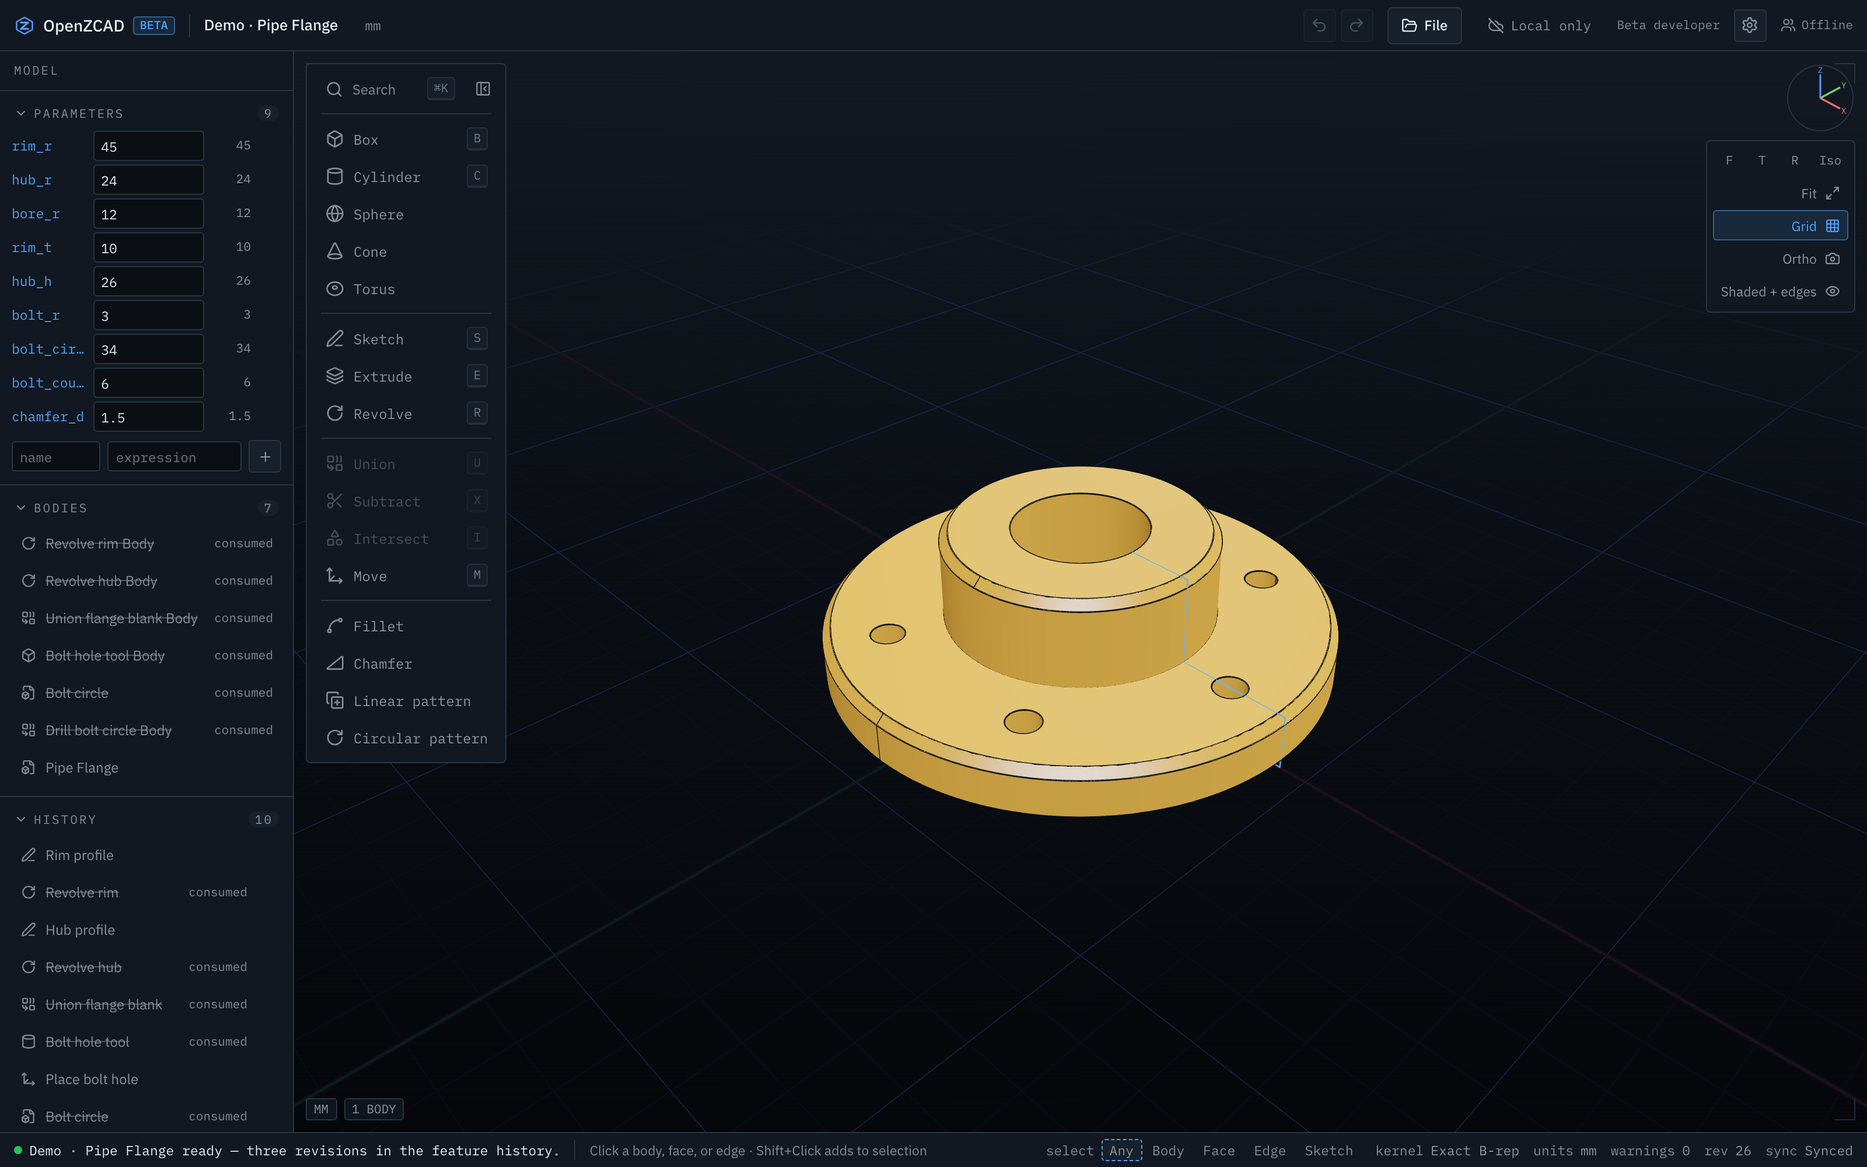
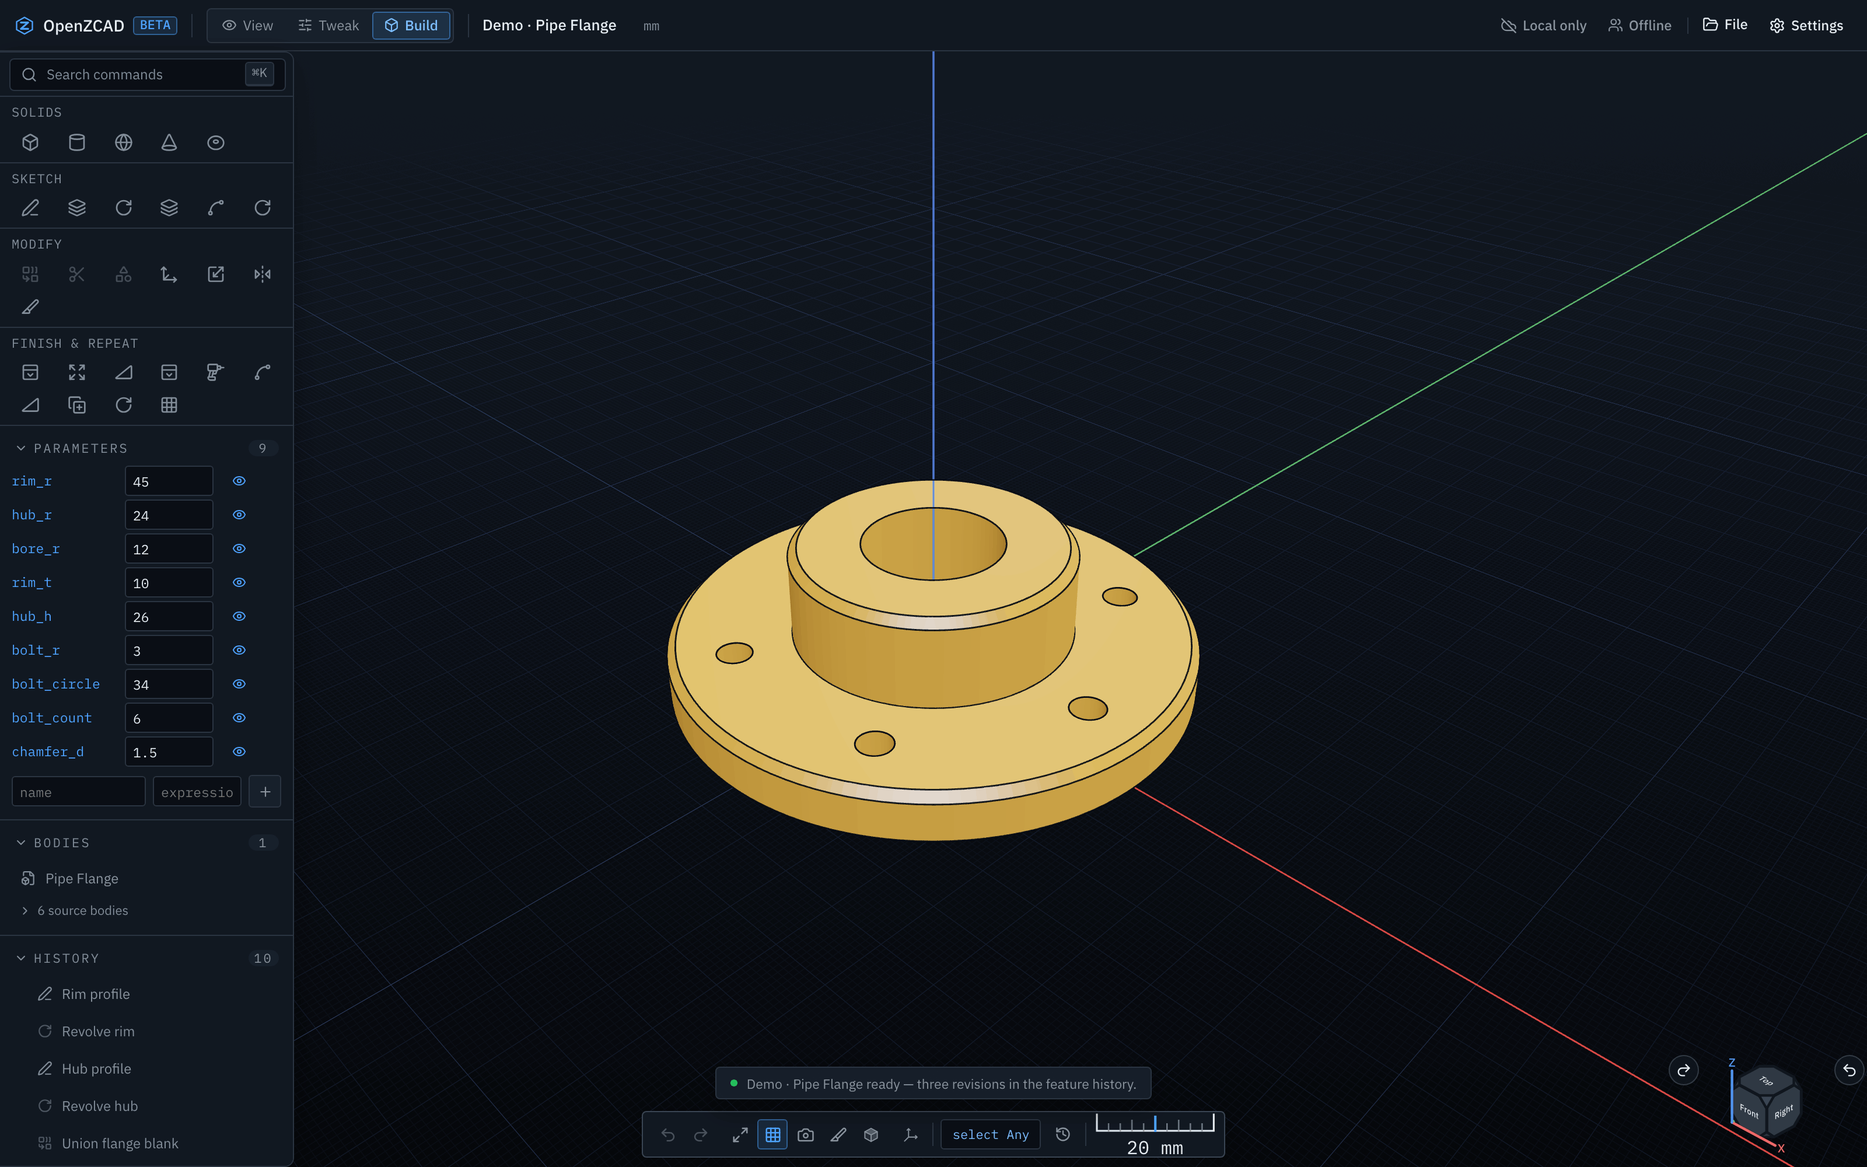
docs: README for the column workspace, current API surface and share links
The README still described the classic shell (sidebar, floating tool
palette, status bar) that PR #246 removed, its API list was two releases
behind, and two sections had been appended after the licence. Screenshots
are retaken in the column workspace at the same 3200x2000 size and
256-colour quantisation as before.

- Highlights: the column shell, viewport dock, toast status, the three
  top-bar modes, the assistant edge tab; sketch text; project shelves,
  share links, storage and account erasure; backups pointer.
- Project backups moves up under Quick start; /healthz folds into the
  health-check section; the licence is the last section again.
- API surface lists the desktop auth, account, share-link, document,
  duplicate, reorder/purge, measurement and multipart upload routes.
- The web page gets a meta description matching the repository's.

diff --git a/apps/web/index.html b/apps/web/index.html
@@ -4,6 +4,10 @@
     <meta charset="UTF-8" />
     <meta name="viewport" content="width=device-width, initial-scale=1.0" />
     <title>OpenZCAD</title>
+    <meta
+      name="description"
+      content="Browser-first parametric CAD: exact B-rep solids on a WebAssembly kernel, replayable feature history, direct on-model editing, and STEP import and export. Local-first, with optional cloud projects and collaboration."
+    />
     <link rel="icon" type="image/svg+xml" href="/favicon.svg" />
   </head>
   <body>

diff --git a/README.md b/README.md
@@ -1,6 +1,6 @@
 # OpenZCAD
 
-OpenZCAD is a browser-first parametric CAD workspace: exact B-rep solid modeling, a replayable feature history, and direct on-model manipulation, with no desktop install. The canonical project document stores named parameters, sketches, and an ordered command history, and a WebAssembly solid kernel rebuilds exact geometry in a background worker.
+OpenZCAD is a browser-first parametric CAD workspace: exact B-rep solid modeling, a replayable feature history, and direct on-model manipulation, with no desktop install. The canonical project document stores named parameters, sketches, and an ordered command history, and a WebAssembly solid kernel rebuilds exact geometry in a background worker. Projects live on your device first; an optional account adds cloud projects, sharing, and live collaboration.
 
 Use the hosted beta at [zcad.app](https://zcad.app/).
 
@@ -15,15 +15,17 @@ Use the hosted beta at [zcad.app](https://zcad.app/).
 
 ## Highlights
 
-**Exact parametric modeling.** Primitives, multi-profile sketch/extrude, revolve, booleans, transforms, mirror-copy, shell, solid offset, fillet, chamfer, and linear/circular patterns, built on the [Remus](https://github.com/esaueng/remus) exact kernel. New face-attached sketches re-resolve an exact lineage reference at their history position instead of freezing a viewport plane. Parametric expressions, ordered feature history with editing and deletion, deterministic replay, transactions, and undo/redo.
+**Exact parametric modeling.** Primitives, multi-profile sketch/extrude, revolve, booleans, transforms, mirror-copy, shell, solid offset, fillet, chamfer, and linear/circular patterns, built on the [Remus](https://github.com/esaueng/remus) exact kernel. Sketches carry lines, arcs, circles, rectangles, polygons, and text set in bundled font files. New face-attached sketches re-resolve an exact lineage reference at their history position instead of freezing a viewport plane. Parametric expressions, ordered feature history with editing and deletion, deterministic replay, transactions, and undo/redo.
 
-**Direct manipulation.** Model directly on the geometry: drag a face to offset it, drag a sketch region into a solid, drag an edge to grow a fillet or chamfer, move/rotate bodies with a snapping gizmo — every drag pairs with exact numeric entry. In-viewport sketching includes snapping, live dimensions, direct tools for every schema-backed constraint kind, and placed driving distance/angle dimensions whose values accept named-parameter expressions. The workspace also includes box select, selection filters, a marking menu, an Esc ladder, and a live orientation widget with perspective/orthographic switching.
+**Direct manipulation.** Model directly on the geometry: drag a face to offset it, drag a sketch region into a solid, drag an edge to grow a fillet or chamfer, move/rotate bodies with a snapping gizmo — every drag pairs with exact numeric entry. In-viewport sketching includes snapping, live dimensions, direct tools for every schema-backed constraint kind, and placed driving distance/angle dimensions whose values accept named-parameter expressions. Box select, selection filters, a marking menu, and an Esc ladder round out the interaction model.
+
+**One column, one canvas.** The workspace is a single resizable column beside a full-width viewport: an icon tool grid on top (solids, sketch, modify, finish and repeat), then Parameters, Bodies, History, Revisions, and Diagnostics. The bottom of the canvas is one dock — viewer bar, selection filter, snap, the activity log, and the scale bar — with status delivered as a toast above it and the orientation cube, with perspective/orthographic switching, in the corner. Three top-bar modes subtract chrome as the job gets smaller: **Build** is the full modeling workspace, **Tweak** exposes only the parameters, and **View** is a clean deck for looking. Once enabled in Settings, the AI assistant sits behind an edge tab on the right seam (`⌘J`); `⌘K` opens the command palette and `⌘,` the Settings overlay, which leaves in-flight work intact.
 
 **One kernel, one topology language.** Remus builds every document, imported STEP included. OpenCascade is gone from the adapter and survives only as the parity corpus's reference implementation under `test/parity/occt-reference`, which never ships. Remus publishes exact topology witnesses and a safe subset of semantic lineage ([ADR-011](docs/adrs/ADR-011-unified-topology-identity.md), [ADR-013](docs/adrs/ADR-013-persistent-topology-lineage.md), [ADR-020](docs/adrs/ADR-020-remus-browser-kernel.md)). Primitive, sweep, and supported rigid-transform identities can survive upstream edits. Boolean, blend, pattern, direct-edit, and STEP provenance remain hash-only where complete evolution is not proved, and every ambiguous or unsupported resolution fails closed.
 
 **Import and export.** Editable STEP import is stored in replayable document history and rebuilt exactly, honouring the file's own declared length and plane-angle units. Selecting an exact imported face shows its surface type and area; the shipped direct-edit subset includes validated through-hole and cylindrical-face edits. A bounded exact recognizer includes blind-hole, counterbore, countersink, boss, pocket, and taper detectors; the live imported-body pass publishes non-overlapping revolution proofs, including counterbores with a conical entry chamfer. Auto-parameterize coordinates the three hole families; the other proof families remain read-only. STEP export preserves distinct solids as a compound; STL export is always millimetres. STL imports become mesh bodies. All geometry and exports run in the browser worker.
 
-**Local-first, optionally cloud.** IndexedDB autosave works with no account; when local and cloud copies diverge, OpenZCAD preserves both and asks which one to keep instead of guessing from versions or timestamps. Optional passwordless profiles unlock cloud projects, synced settings, and live per-project collaboration with owner/editor/viewer roles and one project-wide edit lease. Conflict recovery always writes a local recovery project before choosing the room version, keeping the leased local version, or saving the local version as a copy. The checked-in beta configuration enables sharing and lease enforcement for authenticated accounts; the local development configuration keeps them off.
+**Local-first, optionally cloud.** IndexedDB autosave works with no account, and **File → Export project** writes a complete `.openzcad` backup at any time (see [Project backups](#project-backups)). When local and cloud copies diverge, OpenZCAD preserves both and asks which one to keep instead of guessing from versions or timestamps. Optional passwordless profiles unlock cloud projects, synced settings, project shelves that pin, reorder, archive, and recycle across devices, and live per-project collaboration with owner/editor/viewer roles and one project-wide edit lease. Owners can mint revocable share links that let anyone open the model, adjust its parameters, and export without an account. Conflict recovery always writes a local recovery project before choosing the room version, keeping the leased local version, or saving the local version as a copy. Account settings show storage in use and can erase account data on request. The checked-in beta configuration enables sharing and lease enforcement for authenticated accounts; the local development configuration keeps them off.
 
 <p align="center">
   <img src="docs/design/readme-pipe-flange.png" width="49%" alt="Pipe Flange demo — revolved flange with a patterned bolt circle" />
@@ -43,6 +45,27 @@ pnpm dev:web
 Open the URL Vite prints. Three built-in demos (Mounting Bracket, Pipe Flange, Heat Sink) are available from the start screen.
 
 Settings are available from the start screen, the workspace gear, the command palette, or `Ctrl/Cmd+,` — the Settings page overlays the workspace, so any in-flight work survives it.
+
+## Project backups
+
+Use **File → Export project** to download an `.openzcad` backup of the entire
+open project, independently of the selected body. The backup contains the
+editable model, parameters, sketches, feature and command history, checkpoint
+records, retained restorable save states, STEP source blobs, measurements, and
+archived files. Display meshes rebuild from the model when it opens.
+
+Use **Import project…** on the project screen or in the File menu to create a
+separate local project. Its original remains unchanged. Sources, save states,
+measurements, and archived files commit together; imported files remain
+available under **Stored files** after an offline reload. The copy can later be
+saved to your account using the existing project controls.
+
+Backups use a versioned JSON container with SHA-256 checksums and a 256 MB
+limit. Cloud-backed projects need access to their archived files and retained
+save states; failed downloads stop export rather than create a partial backup.
+Previously pruned save states retain their history records but cannot regain
+snapshot contents that no longer exist. Account permissions, shelf placement,
+viewport preferences, and the transient undo/redo stack are not transferred.
 
 ## Architecture
 
@@ -106,8 +129,11 @@ identifiers into a self-hosting configuration.
 `apps/desktop` is a Tauri 2 shell for Apple Silicon that bundles the same web
 workspace; geometry still runs in the browser workers, and the Rust host stays
 narrow — native menus, user-picked CAD files, exports, and window-state
-restoration. It needs macOS 14+, Xcode Command Line Tools, and stable Rust with
-the `aarch64-apple-darwin` target:
+restoration. The desktop app signs in through the browser: it starts a
+short-lived sign-in attempt, the browser approves it, and the app exchanges it
+for refreshable access tokens, so no password or session cookie ever passes
+through the native shell. It needs macOS 14+, Xcode Command Line Tools, and
+stable Rust with the `aarch64-apple-darwin` target:
 
 ```bash
 pnpm dev:desktop      # tauri dev against the local workspace
@@ -186,7 +212,7 @@ artifact storage, collaboration, and optional server-side AI.
    for the authenticated two-device canary. It covers the D1/R2 pointer check,
    reload, conflict recovery, and any collaboration rollout.
 
-### Health check
+### Health and liveness checks
 
 `GET /api/health` is public and returns JSON only; it is safe to poll without
 credentials and never returns configuration secrets. A healthy running service
@@ -209,36 +235,65 @@ reported status.
 The repository's scheduled `Production health` workflow checks the hosted beta
 with this same contract once per day and can also be run manually.
 
+For uptime monitors that only need to know the Worker is alive, `GET /healthz`
+returns HTTP 200 with JSON `status: "ok"` and a service name. `HEAD /healthz`
+returns the same headers without a body; other methods return 405 with
+`Allow: GET, HEAD`. Responses use `Cache-Control: no-store`. The endpoint
+requires no credentials and performs no storage or upstream requests, so it
+reports Worker liveness only, never dependency readiness or browser
+geometry/solver health.
+
+Cloudflare Access, WAF, and bot challenges run before the Worker. If a monitor
+receives a login redirect or challenge, configure a narrowly scoped exception
+for GET/HEAD on the exact `/healthz` path and the intended app hostname, then
+verify the JSON response from the monitor's network. Repository changes alone
+do not alter those dashboard policies.
+
 ## API surface
 
 ```text
-GET  /api/health                      GET       /api/assistant/status
-GET  /api/auth/config                 POST      /api/assistant/proposals    (SSE)
-POST /api/auth/email/start            GET|PATCH /api/settings
-POST /api/auth/email/verify           PUT|DELETE /api/settings/assistant-credential
-POST /api/auth/logout                 POST      /api/settings/assistant/test
-GET  /api/session                     POST      /api/uploads
+GET|HEAD /healthz                     (liveness only)
+GET  /api/health                      (readiness)
+GET  /api/auth/config                 POST /api/auth/email/start
+GET  /api/session                     POST /api/auth/email/verify
+GET  /api/auth/desktop/config         POST /api/auth/logout
+POST /api/auth/desktop/start | approve | exchange | refresh | logout
+GET|PATCH /api/settings               PUT|DELETE /api/settings/assistant-credential
+POST /api/settings/assistant/test
+GET  /api/assistant/status            POST /api/assistant/proposals    (SSE)
+GET  /api/account/storage             GET  /api/account/deletion-preview
+POST /api/account/delete-data
 GET  /api/collaboration/config       (authenticated account capabilities)
-GET|POST /api/projects                PUT       /api/uploads/:id/content
-GET  /api/projects/:id                POST      /api/artifacts/finalize
-POST /api/projects/:id/revisions      GET       /api/projects/:id/artifacts
+GET|POST /api/projects                POST /api/projects/reorder | purge
+GET|PATCH|DELETE /api/projects/:id    POST /api/projects/:id/duplicate
+PUT  /api/projects/:id/document
+GET|POST /api/projects/:id/revisions  GET  /api/projects/:id/revisions/:revisionId
+GET|PUT|DELETE /api/projects/:id/measurements
 GET  /api/projects/:id/collaboration  (WebSocket upgrade)
 POST /api/projects/:id/collaboration  (oversize snapshot recovery)
 POST /api/projects/:id/collaboration/ticket
-GET  /api/projects/:id/sharing       POST /api/projects/:id/invitations
-PATCH|DELETE /api/projects/:id/members/:userId
+GET  /api/projects/:id/sharing        POST /api/projects/:id/invitations
 DELETE /api/projects/:id/invitations/:invitationId
+PATCH|DELETE /api/projects/:id/members/:userId
+GET|POST /api/projects/:id/share-links
+DELETE /api/projects/:id/share-links/:shareLinkId
+GET  /api/share/:token                GET  /api/share/:token/assets/:assetId
 POST /api/project-invitations/accept
-GET  /api/artifacts/:id               GET       /api/artifacts/:id/download
+POST /api/uploads                     PUT  /api/uploads/:id/content
+POST|DELETE /api/uploads/:id/multipart
+PUT  /api/uploads/:id/parts/:n        POST /api/uploads/:id/multipart/complete
+POST /api/artifacts/finalize          POST /api/imports/finalize
+GET  /api/projects/:id/artifacts      GET  /api/artifacts/:id
+GET  /api/artifacts/:id/download
 ```
 
-Cloud settings, personal credentials, projects, artifacts, and collaboration require an email-code session; the assistant also serves local-only users. The native app exchanges its fixed-origin bearer request for a short-lived, one-use collaboration ticket before opening a WebSocket, so bearer credentials never enter browser code. Artifacts require an uploaded R2 object before finalization.
+Cloud settings, personal credentials, projects, artifacts, and collaboration require an email-code session; the assistant also serves local-only users, and share-link reads under `/api/share` need no session at all. The native app exchanges its fixed-origin bearer request for a short-lived, one-use collaboration ticket before opening a WebSocket, so bearer credentials never enter browser code. Artifacts require an uploaded R2 object before finalization; large uploads go through the multipart routes.
 
 ## AI assistant (experimental)
 
 An optional side panel turns plain-language requests into reviewable document patches. It is experimental and entirely optional — the workspace is fully functional without it. Provider-backed requests stay dormant until a provider key is configured; verified local recipes remain available without one.
 
-The dock collapses to a launcher in the bottom-right corner of the viewport, which gives its whole column back to the model; the conversation keeps running behind it, and the launcher counts any reply that lands while it is closed. Each project's thread — what was asked, what the assistant asked back, and which proposals were applied or rejected — is kept on the device and read back when the project reopens, so the scrollback is a record rather than a session.
+The assistant docks behind an edge tab on the right seam of the viewport (`⌘J`), so a closed panel gives its whole width back to the model; the conversation keeps running behind it, and the tab counts any reply that lands while it is closed. Each project's thread — what was asked, what the assistant asked back, and which proposals were applied or rejected — is kept on the device and read back when the project reopens, so the scrollback is a record rather than a session.
 
 The assistant streams proposals through the OpenAI Responses API. It sees compact feature history, live exact-topology summaries, and the active selection, so "fillet all edges" resolves stable edge fingerprints without manual picking. Output is constrained to a strict CAD patch schema; you preview, apply, or reject, and apply is one normal undoable transaction. PDF and image drawings can be attached as references. The AI can only propose a small allowlisted command patch — it cannot directly mutate a document, viewport, or kernel.
 
@@ -294,39 +349,3 @@ Current assistant limitations and gates:
 ## License
 
 Apache License 2.0 — see [LICENSE](LICENSE). Copyright 2026 Esau Engineering LLC. See [THIRD-PARTY-NOTICES.md](THIRD-PARTY-NOTICES.md) for bundled dependency and font notices.
-
-## Project backups
-
-Use **File → Export project** to download an `.openzcad` backup of the entire
-open project, independently of the selected body. The backup contains the
-editable model, parameters, sketches, feature and command history, checkpoint
-records, retained restorable save states, STEP source blobs, measurements, and
-archived files. Display meshes rebuild from the model when it opens.
-
-Use **Import project…** on the project screen or in the File menu to create a
-separate local project. Its original remains unchanged. Sources, save states,
-measurements, and archived files commit together; imported files remain
-available under **Stored files** after an offline reload. The copy can later be
-saved to your account using the existing project controls.
-
-Backups use a versioned JSON container with SHA-256 checksums and a 256 MB
-limit. Cloud-backed projects need access to their archived files and retained
-save states; failed downloads stop export rather than create a partial backup.
-Previously pruned save states retain their history records but cannot regain
-snapshot contents that no longer exist. Account permissions, shelf placement,
-viewport preferences, and the transient undo/redo stack are not transferred.
-
-### Public liveness endpoint
-
-`GET /healthz` returns HTTP 200 with JSON `status: "ok"` and a service name.
-`HEAD /healthz` returns the same headers without a body; other methods return
-405 with `Allow: GET, HEAD`. Responses use `Cache-Control: no-store`.
-This endpoint requires no application credentials and performs no storage or
-upstream requests. It reports Worker liveness, not dependency readiness or
-browser geometry/solver health. Existing health endpoints keep their behavior.
-
-Cloudflare Access, WAF, and bot challenges run before the Worker. If a monitor
-receives a login redirect or challenge, configure a narrowly scoped exception
-for GET/HEAD on the exact `/healthz` path and the intended app hostname, then
-verify the JSON response from the monitor's network. Repository changes alone
-do not alter those dashboard policies.
